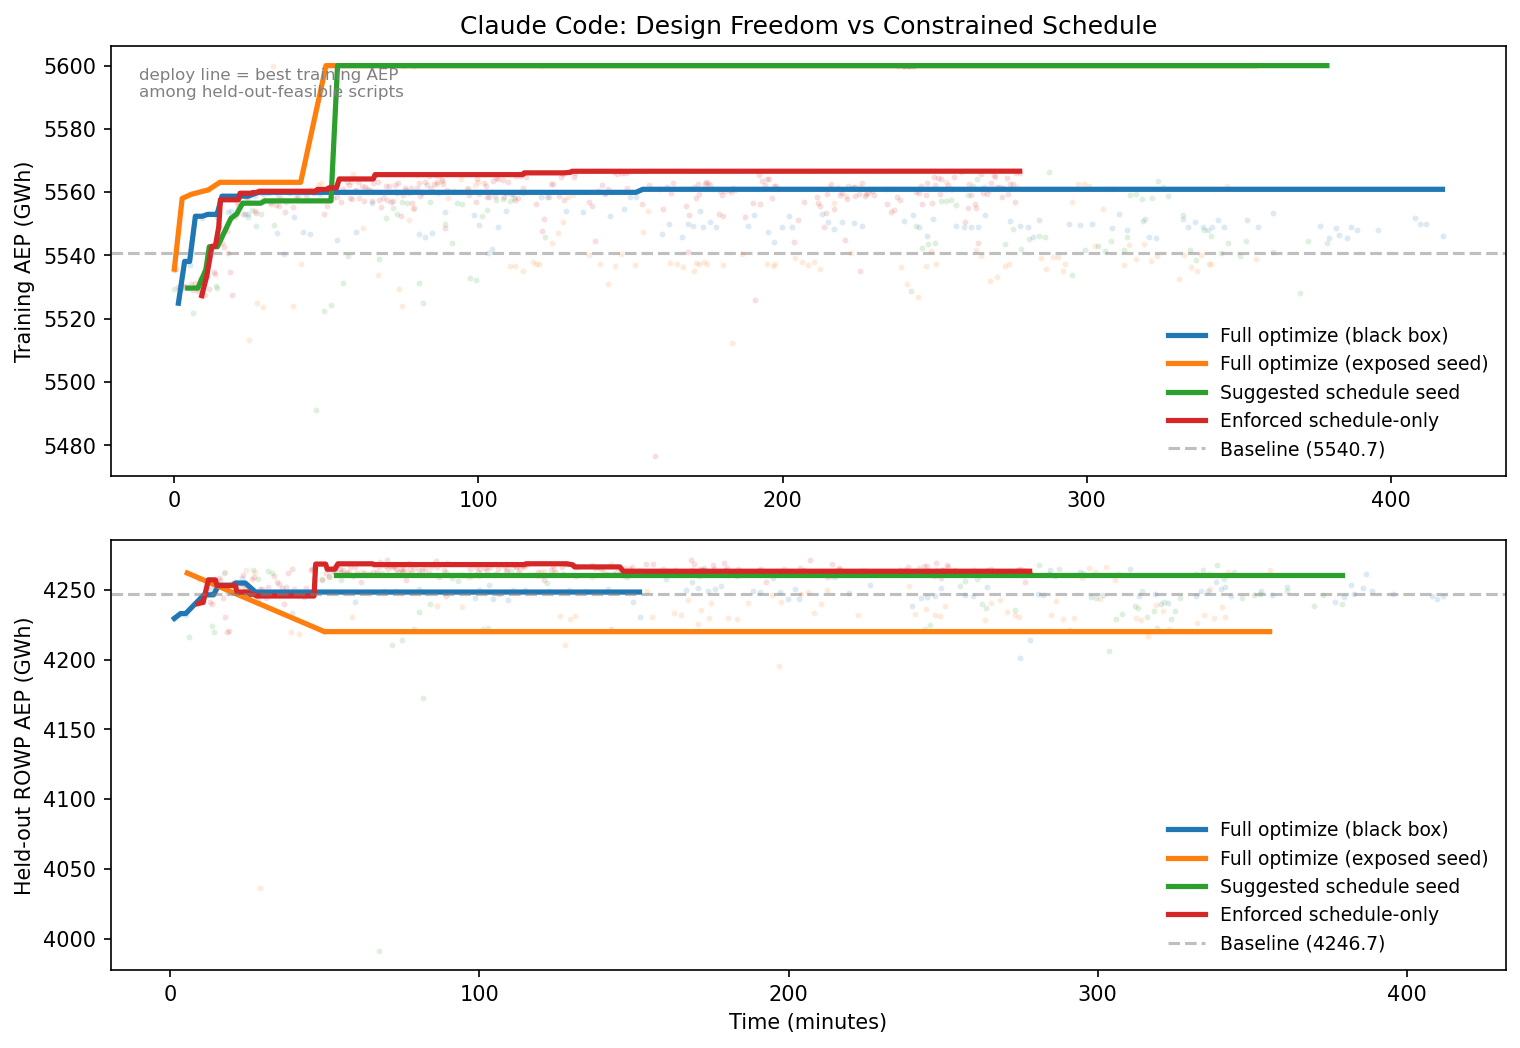
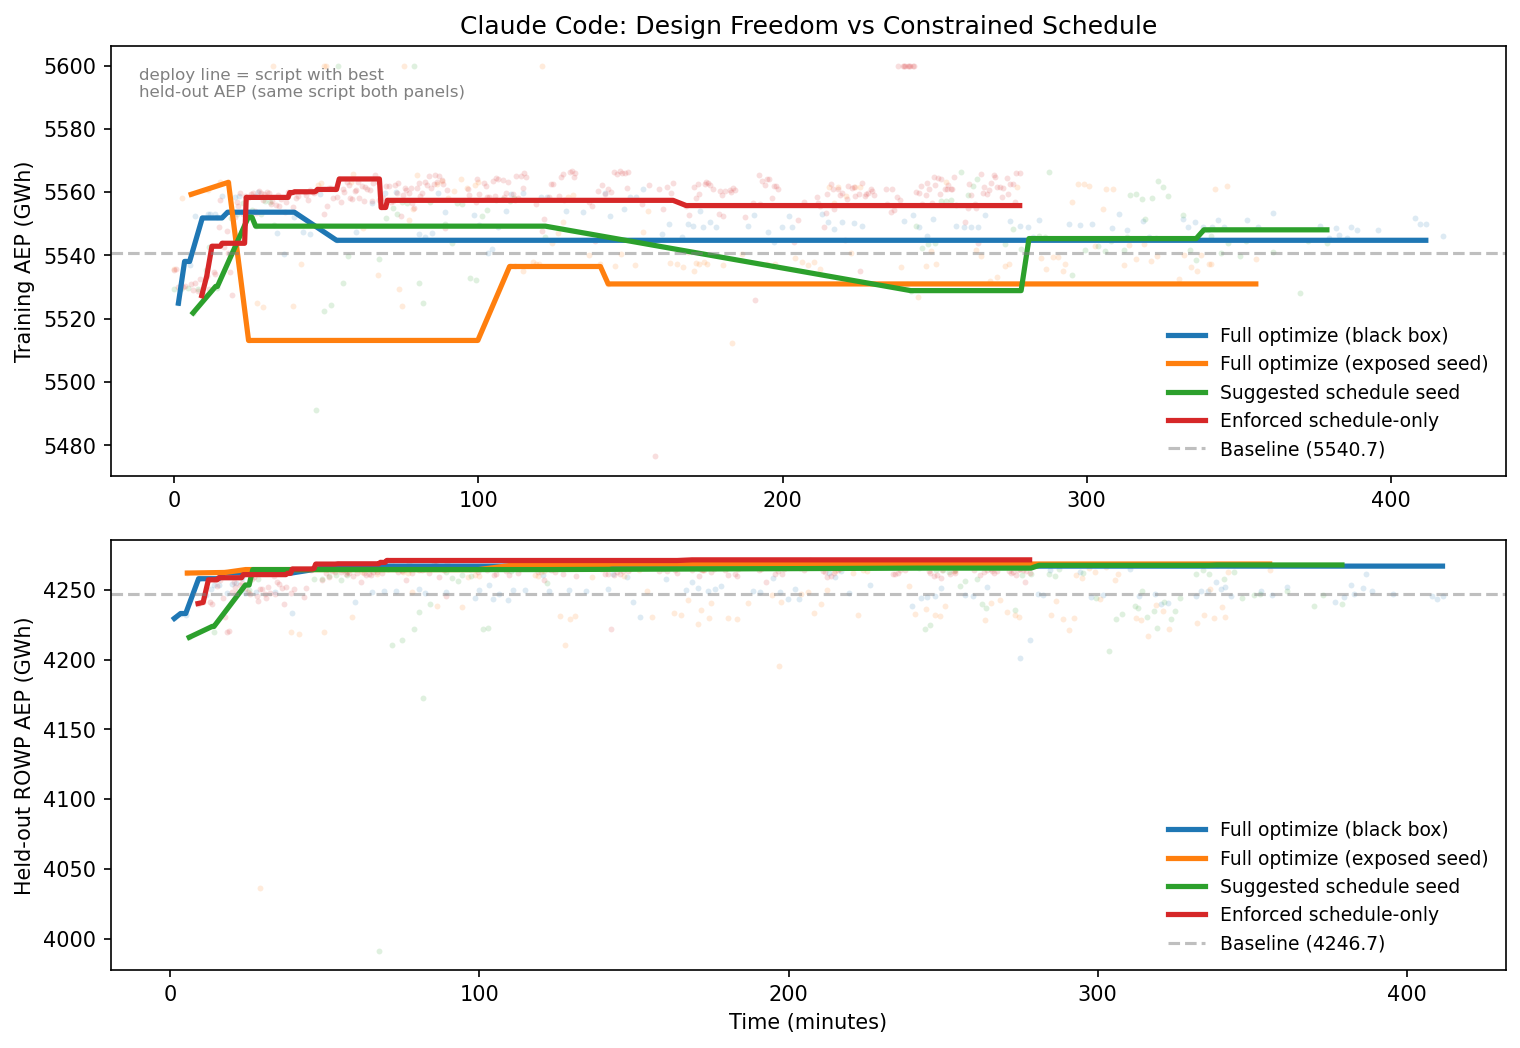
Deploy line selects on held-out ROWP AEP, not training
The deploy decision should maximize generalization (ROWP), not
training performance. Both panels now track the script with the
best held-out AEP — showing its training score as a consequence.

Changed region(s): [[0.0928, 0.0611, 0.9586, 0.3359], [0.1237, 0.5191, 0.9586, 0.6107]]

diff --git a/plot_comparison.py b/plot_comparison.py
@@ -68,28 +68,27 @@ def running_best(entries, key):
 
 
 def deploy_line(entries):
-    """Compute the deploy line: running best on training AMONG scripts
-    that are feasible on the held-out farm. Returns (times, train_vals, rowp_vals)
-    — the same script tracked on both panels."""
+    """Compute the deploy line: running best on ROWP AEP among feasible
+    scripts. Returns (times, train_vals, rowp_vals) — the same script
+    tracked on both panels. We deploy based on held-out performance."""
     times_t, vals_t = [], []
     times_r, vals_r = [], []
-    best_train = -float("inf")
-    best_rowp = None
+    best_rowp = -float("inf")
+    best_train = None
     for e in entries:
         if e.get("train_aep") is None:
             continue
-        # Only consider scripts that are feasible on held-out
-        if not e.get("rowp_feasible"):
+        if not e.get("rowp_feasible") or not e.get("rowp_aep"):
             continue
         t = e["_time_min"]
-        if e["train_aep"] > best_train:
+        if e["rowp_aep"] > best_rowp:
+            best_rowp = e["rowp_aep"]
             best_train = e["train_aep"]
-            best_rowp = e.get("rowp_aep")
-        times_t.append(t)
-        vals_t.append(best_train)
-        if best_rowp is not None:
-            times_r.append(t)
-            vals_r.append(best_rowp)
+        times_r.append(t)
+        vals_r.append(best_rowp)
+        if best_train is not None:
+            times_t.append(t)
+            vals_t.append(best_train)
     return times_t, vals_t, times_r, vals_r
 
 
@@ -145,7 +144,7 @@ def main():
     ax_train.set_ylabel("Training AEP (GWh)")
     ax_train.legend(loc="lower right", fontsize=9)
     ax_train.set_title("Claude Code: Design Freedom vs Constrained Schedule")
-    ax_train.annotate("deploy line = best training AEP\namong held-out-feasible scripts",
+    ax_train.annotate("deploy line = script with best\nheld-out AEP (same script both panels)",
                       xy=(0.02, 0.95), xycoords="axes fraction",
                       fontsize=8, color="gray", va="top")
 
